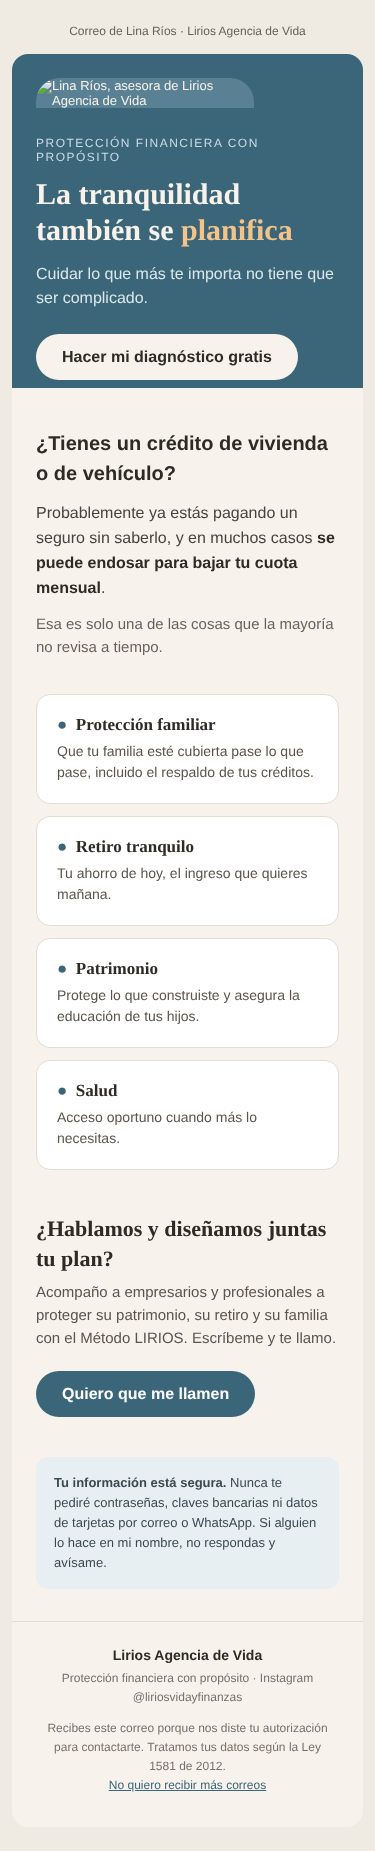
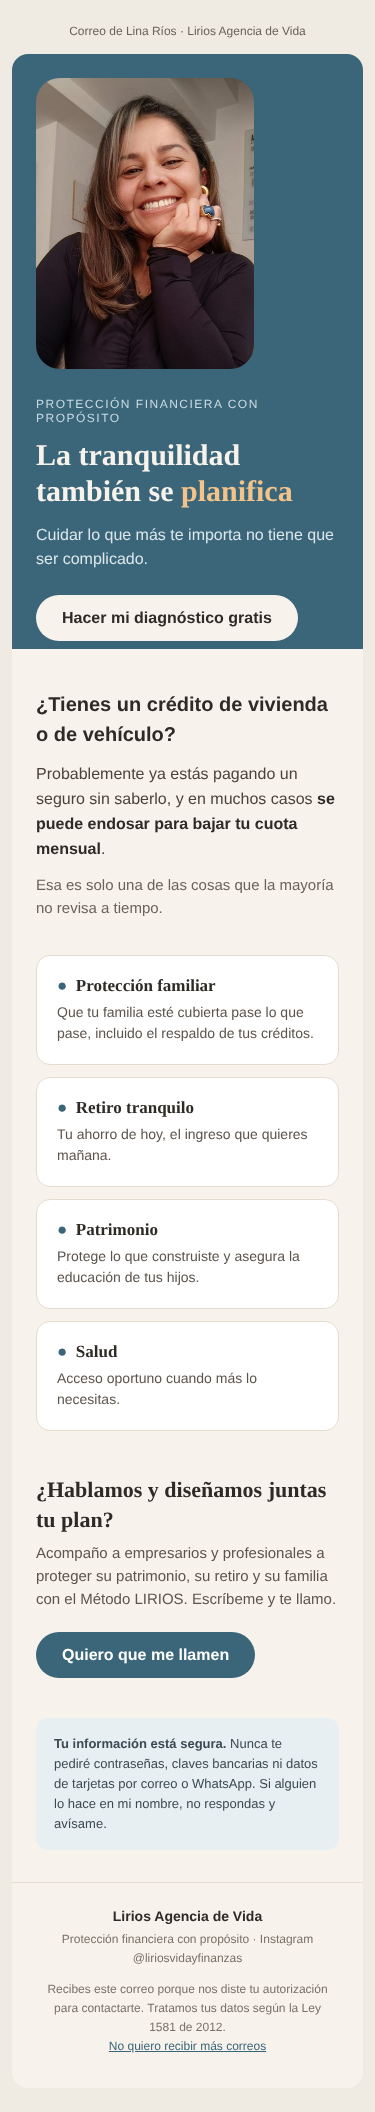
feat: agrega la foto de Lina al correo de campaña de Lirios
Claude-Session: https://claude.ai/code/session_014iEGqFw3Ck9VmX49r1fjd5

diff --git a/campanas/lirios-agencia-de-vida/correo-campana.html b/campanas/lirios-agencia-de-vida/correo-campana.html
@@ -8,8 +8,8 @@
 <title>La tranquilidad también se planifica — Lirios Agencia de Vida</title>
 <!--
   CORREO DE CAMPAÑA — Lirios Agencia de Vida
-  Antes de enviar, reemplaza SOLO estos 4 marcadores:
-    {{URL_FOTO_LINA}}    → enlace público a tu foto (ej. la de tu página, subida a tu herramienta de correo)
+  Antes de enviar, reemplaza SOLO estos 4 datos:
+    foto-lina.jpg        → al montarlo en Brevo, sube esta foto y cambia "foto-lina.jpg" por el enlace que te da Brevo
     {{URL_DIAGNOSTICO}}  → enlace a tu diagnóstico gratis (tu página de Lovable)
     {{NUMERO_WHATSAPP}}  → tu número con indicativo, sin + ni espacios (ej. 573001234567)
     {{URL_BAJA}}         → enlace para darse de baja (lo da tu herramienta de correo, ej. *|UNSUB|* en Mailchimp)
@@ -22,6 +22,7 @@
     .col{display:block !important;width:100% !important;box-sizing:border-box}
     .foto{padding:24px 24px 0 !important}
     .texto{padding:28px 24px 8px !important;text-align:left !important}
+    .fotoimg{border-radius:24px !important}
     .h1{font-size:30px !important;line-height:36px !important}
     .pilar{display:block !important;width:100% !important;padding:0 0 12px !important}
     .px{padding-left:24px !important;padding-right:24px !important}
@@ -48,7 +49,7 @@
       <table role="presentation" class="stack" width="100%" cellpadding="0" cellspacing="0" border="0">
         <tr>
           <td class="col foto" width="250" valign="bottom" style="width:250px;padding:32px 0 0 32px;">
-            <img src="{{URL_FOTO_LINA}}" width="218" alt="Lina Ríos, asesora de Lirios Agencia de Vida" style="display:block;width:218px;max-width:100%;height:auto;border:0;border-radius:24px 24px 0 0;background:#5A8193;color:#F7F3EC;font-family:Arial,sans-serif;font-size:13px;">
+            <img class="fotoimg" src="foto-lina.jpg" width="218" alt="Lina Ríos, asesora de Lirios Agencia de Vida" style="display:block;width:218px;max-width:100%;height:auto;border:0;border-radius:24px 24px 0 0;background:#5A8193;color:#F7F3EC;font-family:Arial,sans-serif;font-size:13px;">
           </td>
           <td class="col texto" valign="middle" style="padding:36px 32px 36px 28px;">
             <p style="margin:0 0 12px;font-family:Arial,Helvetica,sans-serif;font-size:12px;letter-spacing:1.5px;text-transform:uppercase;color:#C9DCE4;">Protección financiera con propósito</p>
